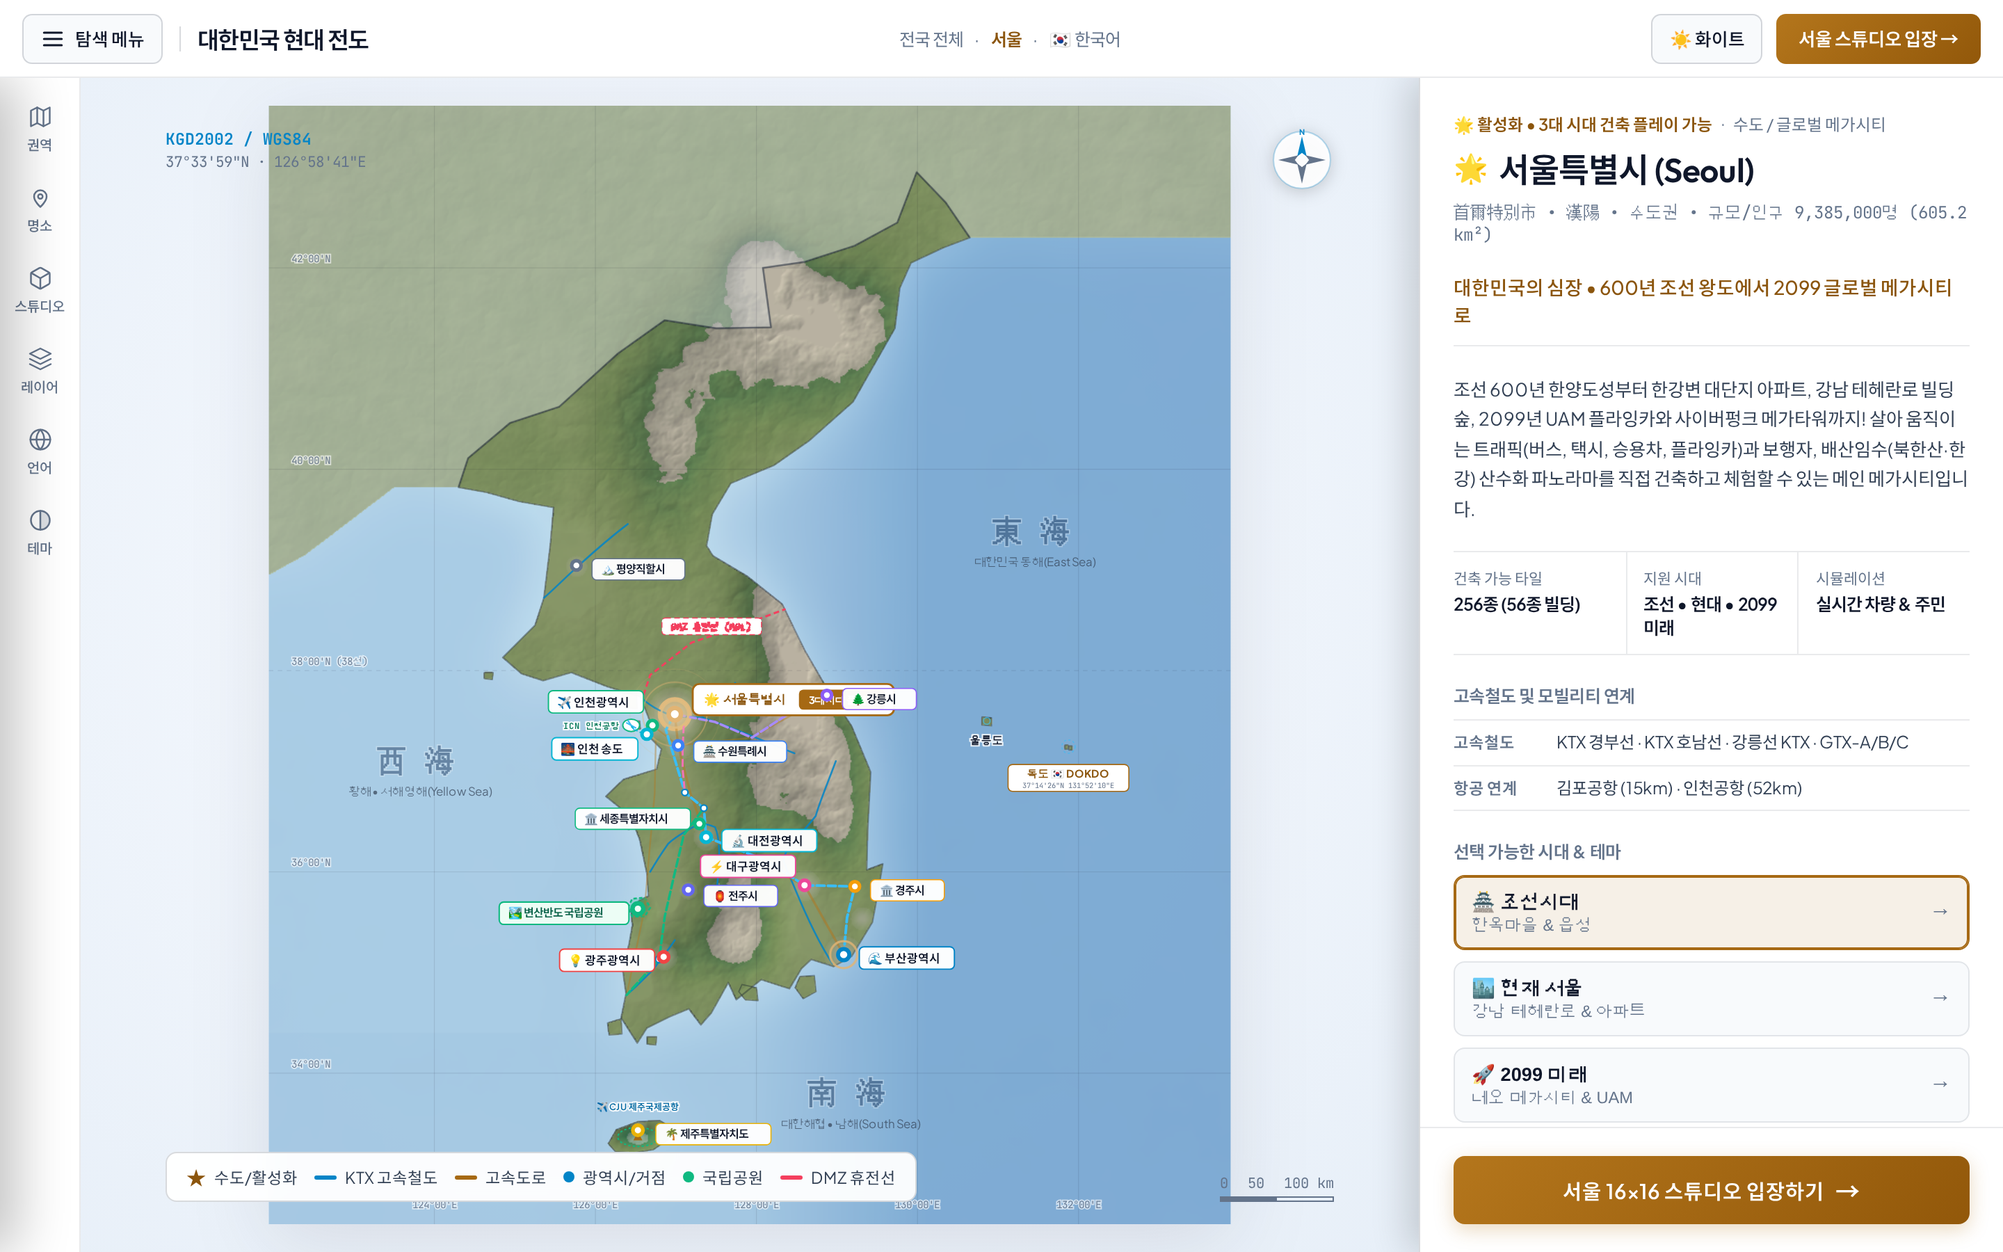
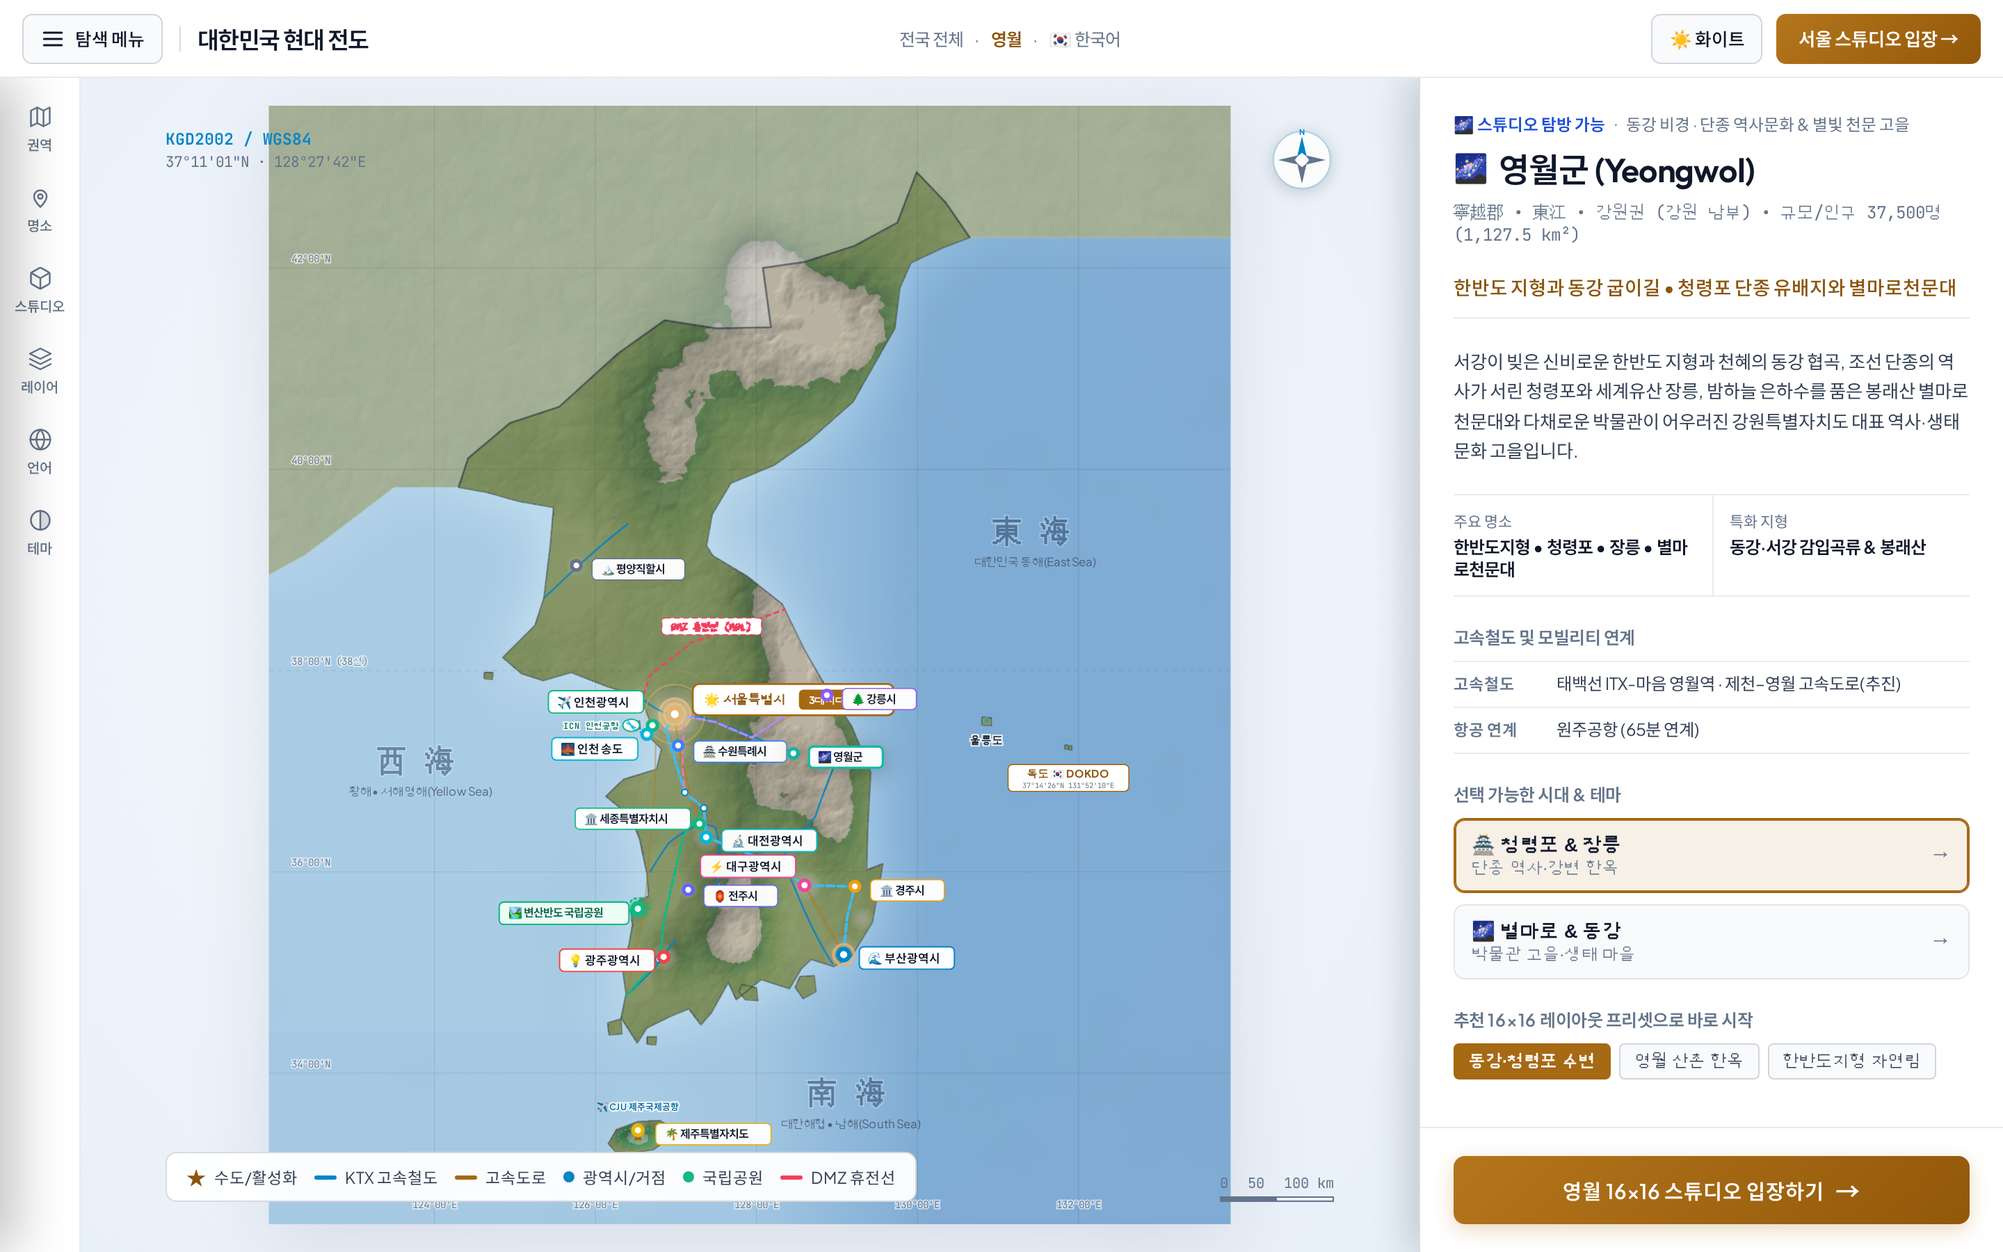
feat: add Yeongwol to interactive map
Update regional data and navigation to include Yeongwol, increasing the total map locations to 16. Includes coordinate definitions, localized labels, and UI updates.

diff --git a/src/koreaMapI18n.js b/src/koreaMapI18n.js
@@ -48,7 +48,7 @@ export const MAP_UI_TRANSLATIONS = {
       chungcheong: '충청·세종 (대전·세종)',
       yeongnam: '영남권 (부산·대구·경주)',
       honam: '호남권 (광주·전주·변산)',
-      gangwon: '강원권 (강릉·원주)',
+      gangwon: '강원권 (강릉·영월)',
       jeju: '제주권',
       north: '이북권 (평양)'
     },
@@ -129,7 +129,7 @@ export const MAP_UI_TRANSLATIONS = {
       chungcheong: 'Chungcheong & Sejong',
       yeongnam: 'Yeongnam',
       honam: 'Honam & Byeonsan',
-      gangwon: 'Gangwon',
+      gangwon: 'Gangwon (Gangneung·Yeongwol)',
       jeju: 'Jeju',
       north: 'Northern (Pyongyang)'
     },
@@ -210,7 +210,7 @@ export const MAP_UI_TRANSLATIONS = {
       chungcheong: '忠清·世宗',
       yeongnam: '岭南圈 (釜山/大邱/庆州)',
       honam: '湖南圈 (光州/全州/边山)',
-      gangwon: '江原圈 (江陵)',
+      gangwon: '江原圈 (江陵/宁越)',
       jeju: '济州圈',
       north: '北部圈 (平壤)'
     },
@@ -291,7 +291,7 @@ export const MAP_UI_TRANSLATIONS = {
       chungcheong: '忠清・世宗',
       yeongnam: '嶺南圏 (釜山/大邱/慶州)',
       honam: '湖南圏 (光州/全州/辺山)',
-      gangwon: '江原圏 (江陵)',
+      gangwon: '江原圏 (江陵・寧越)',
       jeju: '済州圏',
       north: '北朝鮮圏 (平壌)'
     },
@@ -372,7 +372,7 @@ export const MAP_UI_TRANSLATIONS = {
       chungcheong: 'Chungcheong y Sejong',
       yeongnam: 'Yeongnam',
       honam: 'Honam y Byeonsan',
-      gangwon: 'Gangwon',
+      gangwon: 'Gangwon (Gangneung·Yeongwol)',
       jeju: 'Jeju',
       north: 'Norte (Pionyang)'
     },
@@ -1482,6 +1482,113 @@ export const CITY_LOCALIZATIONS = {
       ],
       eras: [{ id: 'joseon', label: '🏯 Lago Gwandong', sub: 'Jardín de Pinos', preset: 'riverside' }],
       presets: [{ id: 'riverside', label: 'Jardín junto al Lago', era: 'joseon' }]
+    }
+  },
+  yeongwol: {
+    ko: { pinLabel: '🌌 영월군' },
+    en: {
+      pinLabel: '🌌 Yeongwol',
+      name: 'Yeongwol County, Gangwon',
+      nameShort: 'Yeongwol',
+      tier: 'Donggang River Gorge • Royal Heritage & Starlight Town',
+      population: '37,500',
+      regionName: 'Gangwon (Southern Gangwon)',
+      statusBadge: '🌌 Studio Ready',
+      ktx: ['Taebaek Line ITX-Maum Yeongwol Sta.', 'Jecheon–Yeongwol Expwy (Planned)'],
+      airports: ['Wonju Airport (65 min link)'],
+      tagline: 'Korean Peninsula Cliffs • Cheongnyeongpo Exile Site & Byeolmaro Observatory',
+      desc: 'Nestled in southern Gangwon Province where the Donggang and Seogang rivers carve dramatic meanders, Yeongwol blends the iconic Korean Peninsula-shaped landform, UNESCO-listed Jangneung Royal Tomb of King Danjong, Cheongnyeongpo, and the starry summit of Byeolmaro Observatory.',
+      stats: [
+        { label: 'Landmarks', value: 'Peninsula Cliffs • Cheongnyeongpo • Jangneung • Byeolmaro' },
+        { label: 'Terrain', value: 'Donggang River Meanders & Mt. Bongnaesan' }
+      ],
+      eras: [
+        { id: 'joseon', label: '🏯 Cheongnyeongpo', sub: 'Royal Heritage & River', preset: 'riverside' },
+        { id: 'modern', label: '🌌 Byeolmaro & Donggang', sub: 'Museum & Starlight Town', preset: 'village' }
+      ],
+      presets: [
+        { id: 'riverside', label: 'Donggang Waterfront', era: 'joseon' },
+        { id: 'village', label: 'Mountain Hanok Valley', era: 'joseon' },
+        { id: 'meadow', label: 'Peninsula Cliffs Forest', era: 'joseon' }
+      ]
+    },
+    zh: {
+      pinLabel: '🌌 宁越郡',
+      name: '江原道 宁越郡 (Yeongwol)',
+      nameShort: '宁越',
+      tier: '东江秘境 · 端宗历史文化与星空天文之乡',
+      population: '37,500人',
+      regionName: '江原圈 (江原南部)',
+      statusBadge: '🌌 可进入工作室探索',
+      ktx: ['太白线 ITX-Maum 宁越站', '堤川–宁越高速公路(规划)'],
+      airports: ['原州机场 (65分钟)'],
+      tagline: '韩半岛地形奇观与东江曲流 • 清泠浦与别马鲁天文台',
+      desc: '位于江原道南部，汇聚西江雕琢而成的韩半岛地形奇观、天赐东江峡谷、朝鲜端宗流放地清泠浦与世界遗产庄陵，以及仰望银河的蓬莱山别马鲁天文台。',
+      stats: [
+        { label: '主要名胜', value: '韩半岛地形 • 清泠浦 • 庄陵 • 别马鲁天文台' },
+        { label: '特色地形', value: '东江·西江曲流峡谷与蓬莱山' }
+      ],
+      eras: [
+        { id: 'joseon', label: '🏯 清泠浦与庄陵', sub: '端宗历史·江畔韩屋', preset: 'riverside' },
+        { id: 'modern', label: '🌌 别马鲁与东江', sub: '博物馆之乡·生态村', preset: 'village' }
+      ],
+      presets: [
+        { id: 'riverside', label: '东江·清泠浦水岸', era: 'joseon' },
+        { id: 'village', label: '宁越山村韩屋', era: 'joseon' },
+        { id: 'meadow', label: '韩半岛地形自然林', era: 'joseon' }
+      ]
+    },
+    ja: {
+      pinLabel: '🌌 寧越郡',
+      name: '江原特別自治道 寧越郡 (Yeongwol)',
+      nameShort: '寧越',
+      tier: '東江渓谷・端宗の歴史＆星空天文の郷',
+      population: '37,500人',
+      regionName: '江原圏 (江原南部)',
+      statusBadge: '🌌 スタジオ探索可能',
+      ktx: ['太白線 ITX-マウム 寧越駅', '堤川–寧越高速道路(計画)'],
+      airports: ['原州空港 (連絡65分)'],
+      tagline: '韓半島地形と東江の蛇行渓谷 • 清泠浦と星マロ天文台',
+      desc: '西江が創り出した神秘の韓半島地形や東江の清流、朝鮮第6代王・端宗ゆかりの清泠浦と世界遺産・荘陵、満天の星を望む星マロ天文台が調和する江原南部の歴史・自然都市です。',
+      stats: [
+        { label: '主要名所', value: '韓半島地形 • 清泠浦 • 荘陵 • 星マロ天文台' },
+        { label: '特化地形', value: '東江・西江の蛇行渓谷＆蓬莱山' }
+      ],
+      eras: [
+        { id: 'joseon', label: '🏯 清泠浦＆荘陵', sub: '歴史と川辺の韓屋', preset: 'riverside' },
+        { id: 'modern', label: '🌌 星マロ＆東江', sub: '博物館の郷・自然村', preset: 'village' }
+      ],
+      presets: [
+        { id: 'riverside', label: '東江・清泠浦水辺', era: 'joseon' },
+        { id: 'village', label: '寧越の山里韓屋', era: 'joseon' },
+        { id: 'meadow', label: '韓半島地形の自然林', era: 'joseon' }
+      ]
+    },
+    es: {
+      pinLabel: '🌌 Yeongwol',
+      name: 'Condado de Yeongwol, Gangwon',
+      nameShort: 'Yeongwol',
+      tier: 'Río Donggang • Patrimonio Real y Cielo Estrellado',
+      population: '37,500 hab.',
+      regionName: 'Gangwon (Sur)',
+      statusBadge: '🌌 Estudio Disponible',
+      ktx: ['Estación Yeongwol ITX-Maum (Línea Taebaek)'],
+      airports: ['Aeropuerto de Wonju (65 min)'],
+      tagline: 'Acantilados de la Península • Cheongnyeongpo y Observatorio Byeolmaro',
+      desc: 'En el sur de Gangwon, los ríos Donggang y Seogang esculpen la célebre formación de la Península Coreana junto a Cheongnyeongpo, la tumba real Jangneung (UNESCO) y el Observatorio Byeolmaro.',
+      stats: [
+        { label: 'Hitos', value: 'Península Seogang • Cheongnyeongpo • Byeolmaro' },
+        { label: 'Terreno', value: 'Meandros del Donggang y Monte Bongnaesan' }
+      ],
+      eras: [
+        { id: 'joseon', label: '🏯 Cheongnyeongpo', sub: 'Ribera Histórica', preset: 'riverside' },
+        { id: 'modern', label: '🌌 Byeolmaro y Donggang', sub: 'Valle de Museos', preset: 'village' }
+      ],
+      presets: [
+        { id: 'riverside', label: 'Ribera del Donggang', era: 'joseon' },
+        { id: 'village', label: 'Aldea Hanok de Montaña', era: 'joseon' },
+        { id: 'meadow', label: 'Bosque de la Península', era: 'joseon' }
+      ]
     }
   },
   jeju: {

diff --git a/src/koreaMapMarkup.js b/src/koreaMapMarkup.js
@@ -125,7 +125,7 @@ export const KOREA_MAP_MARKUP = `
           <div class="lnb-nav-list" role="tablist" aria-label="권역 선택">
             <button type="button" class="lnb-nav-item map-filter-pill active" data-filter="all">
               <span class="lnb-nav-label">전국 전체</span>
-              <span class="lnb-nav-count">15</span>
+              <span class="lnb-nav-count">16</span>
             </button>
             <button type="button" class="lnb-nav-item map-filter-pill" data-filter="capital">
               <span class="lnb-nav-label">수도권 (서울·인천·송도·수원)</span>
@@ -144,8 +144,8 @@ export const KOREA_MAP_MARKUP = `
               <span class="lnb-nav-count">3</span>
             </button>
             <button type="button" class="lnb-nav-item map-filter-pill" data-filter="gangwon">
-              <span class="lnb-nav-label">강원권 (강릉·원주)</span>
-              <span class="lnb-nav-count">1</span>
+              <span class="lnb-nav-label">강원권 (강릉·영월)</span>
+              <span class="lnb-nav-count">2</span>
             </button>
             <button type="button" class="lnb-nav-item map-filter-pill" data-filter="jeju">
               <span class="lnb-nav-label">제주권</span>
@@ -572,6 +572,16 @@ export const KOREA_MAP_MARKUP = `
             <g class="city-label-banner" transform="translate(14, 4)">
               <rect class="pin-banner-bg" x="0" y="-10" width="76" height="19" rx="4" stroke="#8b5cf6" stroke-width="1"/>
               <text class="pin-banner-text" x="8" y="3" font-size="10" font-weight="600">🌲 강릉시</text>
+            </g>
+          </g>
+
+          <!-- 12B. YEONGWOL, GANGWON (37.18N, 128.46E -> 469, 579) -->
+          <g class="map-city-pin" data-city-id="yeongwol" transform="translate(469, 579)" cursor="pointer">
+            <circle cx="0" cy="0" r="5.8" fill="#14b8a6"/>
+            <circle cx="0" cy="0" r="2.6" fill="#ffffff"/>
+            <g class="city-label-banner" transform="translate(14, 4)">
+              <rect class="pin-banner-bg" x="0" y="-10" width="76" height="19" rx="4" stroke="#14b8a6" stroke-width="1"/>
+              <text class="pin-banner-text" x="8" y="3" font-size="10" font-weight="600">🌌 영월군</text>
             </g>
           </g>
 

diff --git a/src/koreaModernMapData.js b/src/koreaModernMapData.js
@@ -607,6 +607,38 @@ export const MODERN_CITIES_REGISTRY = {
       { id: 'riverside', label: '호반 솔숲정원', era: 'joseon' }
     ]
   },
+  yeongwol: {
+    id: 'yeongwol',
+    name: '영월군 (Yeongwol)',
+    nameShort: '영월',
+    hanja: '寧越郡 • 東江',
+    tier: '동강 비경 · 단종 역사문화 & 별빛 천문 고을',
+    population: '37,500명',
+    area: '1,127.5 km²',
+    region: 'gangwon',
+    regionName: '강원권 (강원 남부)',
+    status: 'ready',
+    statusBadge: '🌌 스튜디오 탐방 가능',
+    coords: { x: 469, y: 579 },
+    icon: '🌌',
+    ktx: ['태백선 ITX-마음 영월역', '제천–영월 고속도로(추진)'],
+    airports: ['원주공항 (65분 연계)'],
+    tagline: '한반도 지형과 동강 굽이길 • 청령포 단종 유배지와 별마로천문대',
+    desc: '서강이 빚은 신비로운 한반도 지형과 천혜의 동강 협곡, 조선 단종의 역사가 서린 청령포와 세계유산 장릉, 밤하늘 은하수를 품은 봉래산 별마로천문대와 다채로운 박물관이 어우러진 강원특별자치도 대표 역사·생태 문화 고을입니다.',
+    stats: [
+      { label: '주요 명소', value: '한반도지형 • 청령포 • 장릉 • 별마로천문대' },
+      { label: '특화 지형', value: '동강·서강 감입곡류 & 봉래산' }
+    ],
+    eras: [
+      { id: 'joseon', label: '🏯 청령포 & 장릉', sub: '단종 역사·강변 한옥', preset: 'riverside' },
+      { id: 'modern', label: '🌌 별마로 & 동강', sub: '박물관 고을·생태 마을', preset: 'village' }
+    ],
+    presets: [
+      { id: 'riverside', label: '동강·청령포 수변', era: 'joseon' },
+      { id: 'village', label: '영월 산촌 한옥', era: 'joseon' },
+      { id: 'meadow', label: '한반도지형 자연림', era: 'joseon' }
+    ]
+  },
   jeju: {
     id: 'jeju',
     name: '제주특별자치도 (Jeju)',

diff --git a/src/koreaMapEngine.js b/src/koreaMapEngine.js
@@ -23,6 +23,7 @@ const CITY_DMS_COORDS = {
   jeonju: `35°49'27"N · 127°08'53"E`,
   byeonsan: `35°37'48"N · 126°31'48"E`,
   gangneung: `37°45'07"N · 128°52'34"E`,
+  yeongwol: `37°11'01"N · 128°27'42"E`,
   jeju: `33°29'59"N · 126°31'54"E`,
   pyongyang: `39°02'02"N · 125°45'47"E`
 };

diff --git a/README.md b/README.md
@@ -13,8 +13,8 @@
 
 ### 1. 실사 위성·음영기복 대한민국 현대 전도 · *Photorealistic Korea Satellite & GIS Atlas*
 ![대한민국 현대 실사 위성 전도](docs/screenshots/01-korea-satellite-map.png)
-> **KR**: WGS84 실측 해안선·도서 지형과 산맥 음영기복(태백·소백·한라산·개마고원), 동·서·남해 수심, KTX/SRT 고속철도망, 주요 고속도로, 변산반도 국립공원, 인천 송도, 울릉도·독도 등 15개 주요 거점을 수록한 인터랙티브 전국 지도 화면입니다.  
-> **EN**: Interactive full-peninsula WGS84 satellite & shaded-relief atlas featuring hypsometric mountain relief, bathymetric seas, KTX/SRT high-speed rail, expressways, DMZ, Ulleungdo & Dokdo, and 15 interactive cities & national parks.
+> **KR**: WGS84 실측 해안선·도서 지형과 산맥 음영기복(태백·소백·한라산·개마고원), 동·서·남해 수심, KTX/SRT 고속철도망, 주요 고속도로, 변산반도 국립공원, 인천 송도, 강원 영월, 울릉도·독도 등 16개 주요 거점을 수록한 인터랙티브 전국 지도 화면입니다.  
+> **EN**: Interactive full-peninsula WGS84 satellite & shaded-relief atlas featuring hypsometric mountain relief, bathymetric seas, KTX/SRT high-speed rail, expressways, DMZ, Ulleungdo & Dokdo, and 16 interactive cities & national parks.
 
 ---
 
@@ -43,7 +43,7 @@
 
 ### 1. 실사 위성·지형 기반 대한민국 현대 전도 (WGS84 GIS)
 - **실사 위성 & 음영기복 렌더링**: 실제 한반도 WGS84 해안선과 주요 섬(제주도, 강화도, 영종도, 거제도, 남해도, 진도, 완도, 울릉도, 독도 등), 산맥 고도별 식생·음영기복, 서해 갯벌·대륙붕과 동해 심해 수심을 정밀하게 합성한 실사형 베이스맵을 제공합니다.
-- **15개 주요 도시 및 국립공원 수록**: 서울특별시, 부산광역시, 인천광역시, **인천 송도국제도시**, 대구광역시, 대전광역시, 광주광역시, 수원특례시, 세종특별자치시, 경주시, 전주시, **변산반도 국립공원**, 강릉시, 제주특별자치도, 평양직할시를 클릭해 상세 도시에(Dossier)와 프리셋을 확인할 수 있습니다.
+- **16개 주요 도시 및 국립공원 수록**: 서울특별시, 부산광역시, 인천광역시, **인천 송도국제도시**, 대구광역시, 대전광역시, 광주광역시, 수원특례시, 세종특별자치시, 경주시, 전주시, **변산반도 국립공원**, 강릉시, **강원 영월군**, 제주특별자치도, 평양직할시를 클릭해 상세 도시에(Dossier)와 프리셋을 확인할 수 있습니다.
 - **국가 기간망 레이어 토글**: 실사 위성·지형 지도, KTX/SRT 고속철도망, 주요 고속도로망, 국립공원 및 자연보전구역 레이어를 개별 ON/OFF 할 수 있습니다.
 
 ### 2. 모던 LNB 오프캔버스 네비게이션 & 다국어 · 테마 지원
@@ -121,13 +121,13 @@ npm run lint
 ## Overview
 **Korea Spacetime Atlas & Isometric City Builder** combines a **photorealistic WGS84 satellite & shaded-relief GIS map of the Korean Peninsula** with an interactive **16×16 dimetric (2:1) isometric city-building studio** spanning three distinct eras: **Joseon Dynasty**, **Modern Seoul**, and **2099 Future Megacity**.
 
-Explore 15 major Korean cities and national parks in **5 languages**, toggle national rail and highway infrastructure layers, switch seamlessly between **Light and Dark modes**, and launch directly into the isometric studio to craft living dioramas complete with tactile placement animations, autonomous traffic, and Day/Night atmosphere.
+Explore 16 major Korean cities and national parks in **5 languages**, toggle national rail and highway infrastructure layers, switch seamlessly between **Light and Dark modes**, and launch directly into the isometric studio to craft living dioramas complete with tactile placement animations, autonomous traffic, and Day/Night atmosphere.
 
 ## Key Features
 
 ### 1. Photorealistic WGS84 Korea Satellite & Shaded-Relief Map
 - **Procedural Satellite & Hypsometric Relief**: Synthesizes authentic WGS84 Korean Peninsula mainland & island coastlines (Jeju, Ganghwa, Yeongjong/ICN, Geoje, Ulleungdo, Dokdo) with directional hillshading across major mountain ranges (Taebaek, Sobaek, Hallasan, Kaema Plateau) and bathymetric depth gradients across the West, South, and East Seas.
-- **15 Interactive Cities & National Parks**: Inspect detailed geographic dossiers and launch regional presets for Seoul, Busan, Incheon, **Incheon Songdo International City**, Daegu, Daejeon, Gwangju, Suwon, Sejong, Gyeongju, Jeonju, **Byeonsanbando National Park**, Gangneung, Jeju, and Pyongyang.
+- **16 Interactive Cities & National Parks**: Inspect detailed geographic dossiers and launch regional presets for Seoul, Busan, Incheon, **Incheon Songdo International City**, Daegu, Daejeon, Gwangju, Suwon, Sejong, Gyeongju, Jeonju, **Byeonsanbando National Park**, Gangneung, **Yeongwol (Gangwon)**, Jeju, and Pyongyang.
 - **Infrastructure & Conservation Layers**: Independently toggle Satellite Terrain, KTX/SRT High-Speed Rail, Expressways, and National Park Reserve overlays.
 
 ### 2. Modern Offcanvas LNB UX, 5 Languages & Dual Themes
